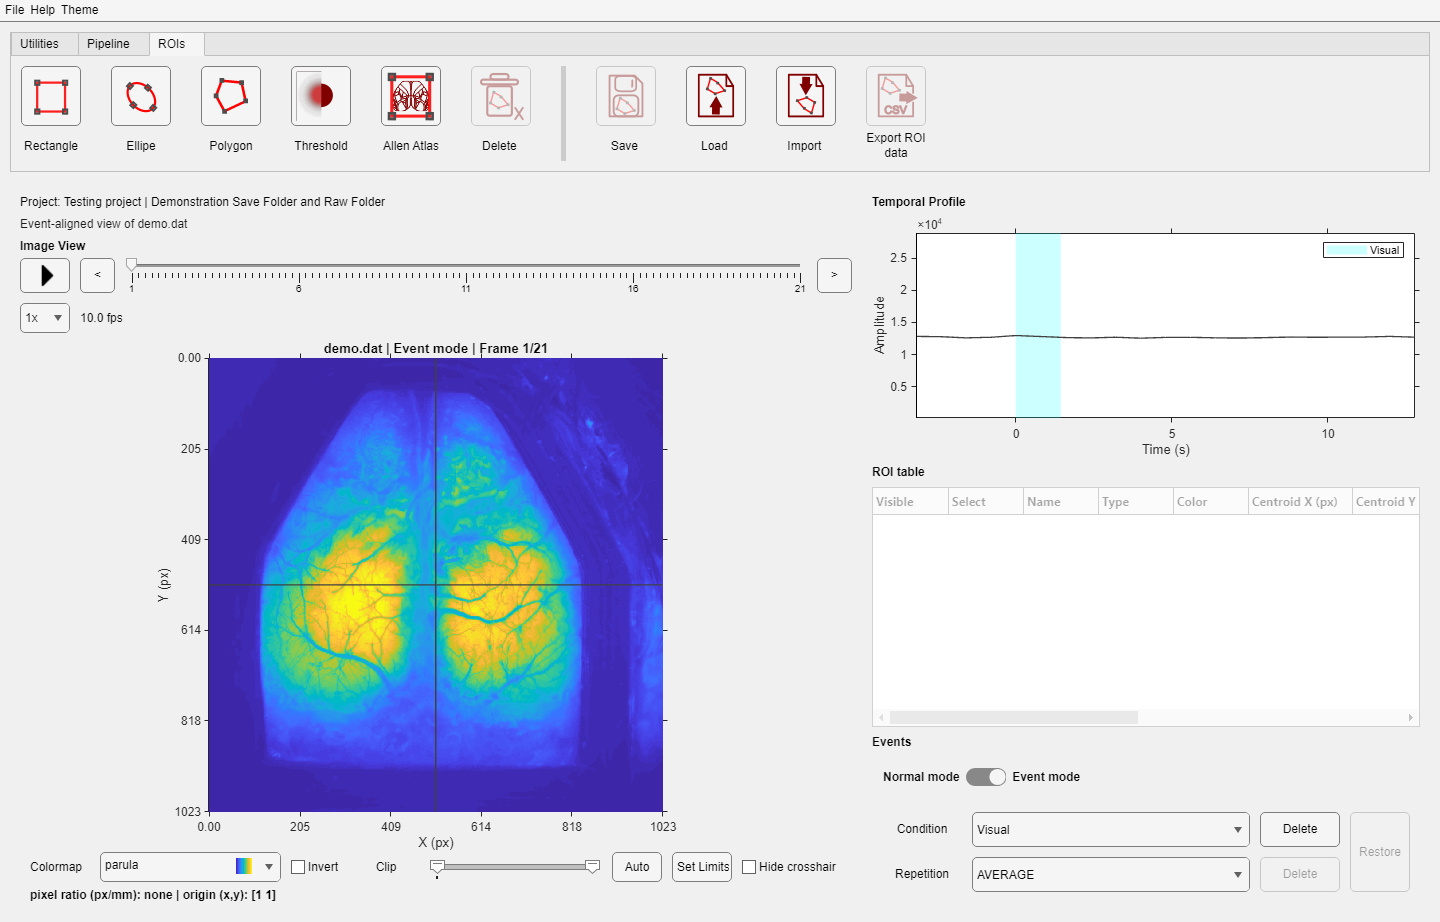
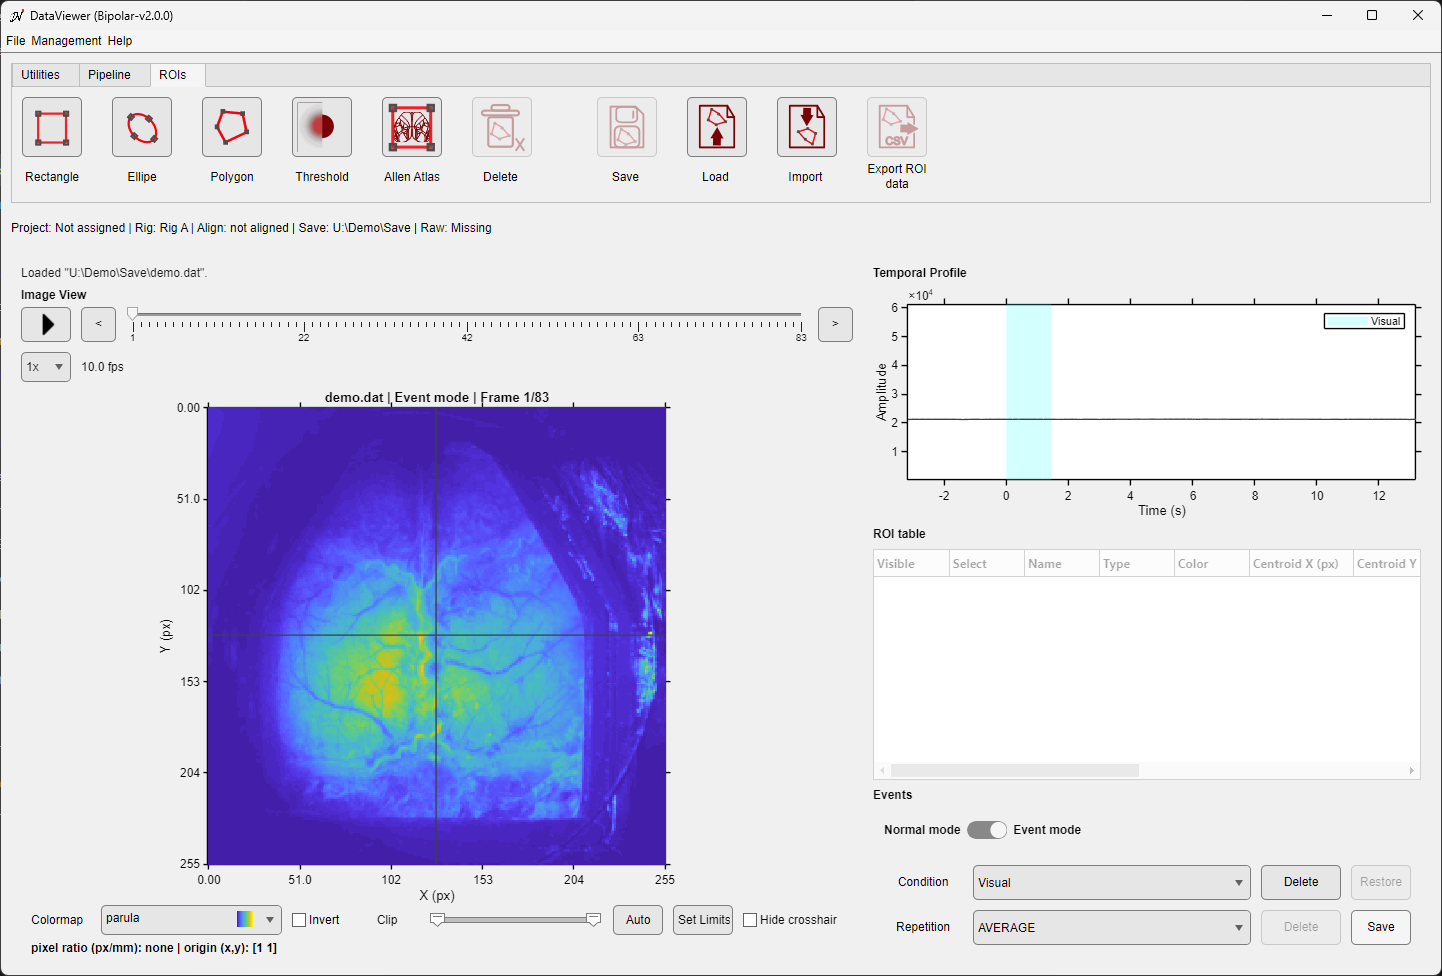
docs(events): refresh DataViewer and Events Manager screenshots, add dialog images
Regenerate the Events Manager and DataViewer overview/event-mode screenshots and add the ignore-repetitions, save-selection and Rig Manager delete/export/archived dialog images to the user docs.

diff --git a/docs/documentation/userDocs/tools/rig-manager_tool.html b/docs/documentation/userDocs/tools/rig-manager_tool.html
@@ -96,6 +96,8 @@ nav_order: 7
 <h3 id="deleting-a-rig">Deleting a rig</h3>
 <p>An archived rig can be deleted for good with <strong>Delete Rig...</strong>, which appears next to <strong>Restore Rig</strong> when an archived rig is selected. The Active rig and Available rigs cannot be deleted: archive them first. The dialog explains what is lost and asks you to type the Rig ID. <strong>Export Rig first...</strong> in the same dialog saves a <samp>.umitrig</samp> copy that <strong>Import Rig...</strong> can install again.</p>
 <p>Deleting removes the rig record and its camera-coregistration files and history. It does not remove the shared spectra and filter sets, nor the rig ledger of any folder that used the rig, so results computed from those folders stay valid. The <a href="dual-cam-coregistration_tool.html">Camera Coregistration</a> tool cannot save a new calibration for a folder bound to a deleted rig until that rig is imported again. Deleting cannot be undone.</p>
+<p style="text-align:center"><img src="../../assets/img/current/rig-manager-archived-rig.png" alt="Rig Manager with the archived Rig B selected: Restore Rig and Delete Rig buttons" width="880"><br><em>An archived rig shows Restore Rig and Delete Rig...; the Active and Available rigs have no Delete Rig button.</em></p>
+<p style="text-align:center"><img src="../../assets/img/current/rig-manager-delete-rig.png" alt="Delete Rig dialog: consequences, a field to type the Rig ID, and the buttons Export Rig first, Delete permanently and Cancel" width="562"><br><em>Delete permanently is enabled only when the Rig ID is typed exactly; Export Rig first writes a .umitrig copy.</em></p>
 <h2 id="export-import">Moving a rig to another computer</h2>
 <p>A rig can be copied to another computer as a self-contained <samp>.umitrig</samp> file. Use the <strong>Import Rig...</strong> and <strong>Export Rig...</strong> buttons in the top row of this window, next to <strong>Optical Library</strong>; they also work in the compiled application:</p>
 <ul>
@@ -105,6 +107,7 @@ nav_order: 7
 <p>The file holds the rig, the spectra its cameras and illuminations use, and its camera-coregistration calibrations. The imported rig keeps its identity, so folders bound to it on the first computer show the same rig on the second. Spectra missing from the other library are added; a spectrum with the same ID but different content is refused and nothing is installed. The imported rig becomes Active only when the library has no Active rig; otherwise it is Available. Importing does not bind any folder: use <a href="../apps/folder-rig.html#management-rig-folder-rig">Management &gt; Rig &gt; Folder Rig</a> for that.</p>
 <h3 id="export-import-filter-sets">Filter sets</h3>
 <p>A filter set is not part of a rig: you choose it for each analysis (for example the <samp>FilterSet</samp> of <a href="../fcns/HemoCompute.html">HemoCompute</a>) and each folder records the one it used. A filter set you defined yourself, or the filter spectra it uses, is therefore not on another computer unless you take it along. Choose it in the list of <strong>Export Rig...</strong>: the file then also holds the selected filter sets and the filter spectra they reference. Built-in filter sets are not listed, because every installation has them.</p>
+<p style="text-align:center"><img src="../../assets/img/current/rig-manager-export-filter-sets.png" alt="Export Rig dialog listing the user-defined filter sets, all selected, with Export and Cancel" width="482"><br><em>Choosing the filter sets that travel with the exported rig; all your own filter sets are selected at first.</em></p>
 <p>On import, a filter set that the other library does not have is added to its user library, and the status bar names it. A filter set already there with the same excitation and emission spectra is left as it is. A filter set with the same ID but different spectra is refused and nothing is installed, because the content of a filter set cannot change under its ID; rename one of them first. A file that contains filter sets can only be imported by a toolbox version that supports them; a file without filter sets can be imported by any version.</p>
 <p>From the MATLAB command line the same operations are <samp>store.exportRig(file, 'FilterSets', {'MySet'})</samp> and <samp>UMITRigStore.importRig(file)</samp>.</p>
 </body></html>

diff --git a/docs/documentation/userDocs/tools/events-manager_tool.html b/docs/documentation/userDocs/tools/events-manager_tool.html
@@ -29,7 +29,10 @@ nav_order: 2
 <li><strong>Purge condition</strong> also removes its timing, for events that are not real stimuli (for example a device-required baseline placeholder). It is refused while the Save Folder holds event-split data.</li>
 <li><strong>Ignore / restore repetitions...</strong> lists the repetitions of the condition with their onset times and a checkbox <strong>Ignore</strong> for each. Tick the repetitions to ignore, untick to include them again, and press <strong>Apply</strong>. Only the repetitions whose checkbox changed are affected, and both the start and the end of a repetition. A condition that was ignored as a whole can be restored one repetition at a time here.</li>
 </ul>
+<p style="text-align:center"><img src="../../assets/img/current/events-manager-condition-menu.png" alt="Condition table of the Events Manager with its context menu: Ignore Condition, Purge Condition and Ignore / restore repetitions" width="780"><br><em>Right-click a condition row to ignore or purge the condition, or to ignore and restore single repetitions.</em></p>
+<p style="text-align:center"><img src="../../assets/img/current/events-manager-ignore-repetitions.png" alt="Ignore repetitions dialog listing the ten repetitions of the Visual condition with their onset times; repetition 3 is ticked" width="442"><br><em>The repetitions of one condition with their onset times: tick a repetition to ignore it, untick it to include it again, then press Apply.</em></p>
 <p>The condition table shows <strong>NRepeats</strong>, the repetitions still included, and <strong>NIgnored</strong>, the ignored ones; both update after every change. <strong>Reset ignored/purged conditions</strong> returns every ignored or purged event to included in one step. At least one condition and one repetition always stay included: the last condition with included events cannot be ignored or purged, and the repetitions of the only remaining condition cannot all be ignored. Nothing is written until you press <strong>Save events.mat</strong>; the status line reminds you after each change. Ignored events stay in <samp>events.mat</samp> and in saved event-split data, flagged, and are excluded from display and from the average of a condition. To decide about a trial after looking at the data, use <strong>Delete repetition</strong> in <a href="../apps/data-loading-navigation.html"><em>DataViewer</em></a> and save with the <strong>Save</strong> button of its Events panel.</p>
+<p style="text-align:center"><img src="../../assets/img/current/events-manager-repetition-ignored.png" alt="Events Manager after ignoring repetition 3 of Visual: NRepeats 9, NIgnored 1, and the status line asking to save events.mat" width="880"><br><em>After ignoring repetition 3 of the Visual condition: NRepeats shows the 9 repetitions still included, NIgnored the 1 ignored, and the status line reminds you to save.</em></p>
 <h2 id="detection-parameters">Detection parameters</h2>
 <table><tr><th>Parameter</th><th>Use</th></tr>
 <tr><td><strong>Threshold</strong></td><td>The voltage crossing used to detect an edge. <strong>Auto</strong> starts at 80% of the signal span above its minimum; set a number when noise or an unusual pulse amplitude requires manual control.</td></tr>

diff --git a/docs/documentation/userDocs/apps/data-loading-navigation.html b/docs/documentation/userDocs/apps/data-loading-navigation.html
@@ -23,6 +23,7 @@ nav_order: 3
 <p><strong>Event mode</strong> is available for <samp>.dat</samp> only when events were detected and a usable <samp>events.mat</samp> exists in the Save Folder. See <a href="../tools/events-manager_tool.html"><em>Events Manager</em></a>. For an event-based image entry of a <samp>.umt</samp> file, the event choices come from the <samp>.umt</samp> file itself.</p>
 <p style="text-align:center"><img src="../../assets/img/current/dataviewer-event-mode-current.png" alt="DataViewer event-aligned view" width="880"><br><em>Event mode displays the selected condition and repetition or their average.</em></p>
 <div class="warnnote"><p><strong>Save the event selection to keep it.</strong><br><strong>Delete condition</strong> and <strong>Delete repetition</strong> do not remove image samples. They change the ignored-event selection of the open viewer only, and the status bar says that the change is not saved. <strong>Restore</strong> makes all ignored events available again, also in the open viewer only. Press <strong>Save</strong> in the Events panel, below <strong>Restore</strong>, and confirm to write the selection to <samp>events.mat</samp>: the trials then stay excluded in <em>DataViewer</em>, in the average of a condition and in analysis functions that use the event file, until they are restored and saved again. Ignoring events because of a faulty trigger detection is better done in the <a href="../tools/events-manager_tool.html#ignoring-conditions-and-repetitions"><em>Events Manager</em></a>.</p></div>
+<p style="text-align:center"><img src="../../assets/img/current/dataviewer-save-event-selection.png" alt="DataViewer confirmation Save event selection with the Save and Cancel buttons" width="506"><br><em>The Save button of the Events panel asks for confirmation before it writes events.mat.</em></p>
 <h2 id="image-display">Image display</h2>
 <table><tr><th>Control</th><th>Use</th></tr>
 <tr><td>Click Image View</td><td>Moves the crosshair and changes the pixel shown in the temporal plot.</td></tr>
